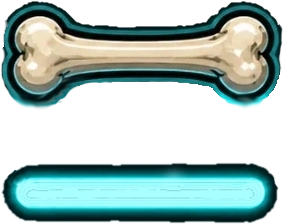
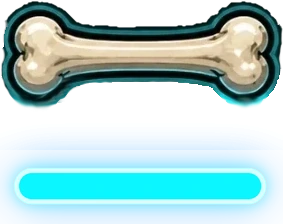
style(skeleton): refine seek slider styling and thumb effects
- Update minimize tool icon asset with refined styling
- Replace blur effect with layered drop-shadow glow on play glyph using three-step cyan bloom (#cdffff, #1ee6ff, #008cff)
- Add pale cyan border (1px solid #d6ffff) to play glyph with border-box sizing
- Refactor seek slider thumb from PNG-based to asset with removed drop-shadow filter
- Adjust seek slider position from 80.45% to 79.37% and height to 1cqw for better proportions
- Darken inactive seek track color from #0b4254 to #02121f for improved contrast
- Add neon cyan border (1px solid #10ecf6) to seek slider track
- Enhance seek slider glow with refined multi-layer box-shadow (inset cyan, outer cyan, blue highlights)
- Add comments documenting the play glyph paint and seek slider capsule design intent
- Improve visual cohesion with consistent cyan neon aesthetic across interactive elements

Changed region(s): [[0.0, 0.625, 0.9894, 1.0]]

diff --git a/src/renderer/style.css b/src/renderer/style.css
@@ -1515,10 +1515,15 @@ input[type="range"]::-moz-range-thumb {
   width: 1.2%;
   height: 2.3%;
   border-radius: 50%;
+  /* The play glyph's own paint — flat cyan, pale stroke, its three-step bloom */
   background: #0af6ff;
-  filter: blur(0.2cqw);
+  border: 1px solid #d6ffff;
+  box-sizing: border-box;
   opacity: var(--eye, 0.2);
-  box-shadow: 0 0 1.2cqw 0.7cqw #008cff;
+  filter:
+    drop-shadow(0 0 0.16cqw #cdffff)
+    drop-shadow(0 0 0.44cqw #1ee6ff)
+    drop-shadow(0 0 1.05cqw #008cff);
   pointer-events: none;
   z-index: 2;
 }
@@ -1629,7 +1634,7 @@ input[type="range"]::-moz-range-thumb {
   transform: rotate(6deg);
   appearance: none;
   -webkit-appearance: none;
-  border: 1px solid #17566d;
+  border: 1px solid #d6ffff;
   border-radius: 999px;
   background: linear-gradient(
     90deg,
@@ -1638,7 +1643,10 @@ input[type="range"]::-moz-range-thumb {
     #03101d var(--level, 80%),
     #03101d 100%
   );
-  box-shadow: inset 0 2px 4px #000c, 0 1px 1px #69c8e530;
+  box-shadow:
+    0 0 0.16cqw #cdffff,
+    0 0 0.44cqw #1ee6ff,
+    0 0 1.05cqw #008cff;
   cursor: pointer;
   z-index: 3;
 }
@@ -1789,26 +1797,29 @@ input[type="range"]::-moz-range-thumb {
 .skeleton-skin .sk-seek {
   position: absolute;
   left: 34.8%;
-  top: 80.45%;
+  top: 79.37%;
   width: 30.7%;
-  height: 1.1%;
+  height: 1cqw;
   margin: 0;
   appearance: none;
   -webkit-appearance: none;
   cursor: pointer;
+  /* A capsule as thick as the bone thumb, stroked in neon cyan. The played run
+     fills solid cyan; the rest stays a dark channel, as in the reference. */
   background: linear-gradient(
     90deg,
     #0af6ff 0%,
     #0af6ff var(--progress, 0%),
-    #0b4254 var(--progress, 0%),
-    #0b4254 100%
+    #02121f var(--progress, 0%),
+    #02121f 100%
   );
-  border: 0;
+  border: 1px solid #10ecf6;
   border-radius: 999px;
   box-shadow:
-    inset 0 0 0.18cqw #d9feff55,
-    0 0 0.15cqw #bffcff99,
-    0 0 0.45cqw #0af6ffaa;
+    inset 0 0 0.18cqw #0af6ff4d,
+    0 0 0.18cqw #0af6ffcc,
+    0 0 0.55cqw #12dcf080,
+    0 0 1.15cqw #0070cc5c;
   z-index: 3;
 }
 /* The thumb is an upright cartoon bone, as in the reference art: a shaft with
@@ -1824,8 +1835,10 @@ input[type="range"]::-moz-range-thumb {
   min-width: 11px;
   min-height: 15px;
   border: 0;
+  /* the shared range-thumb defaults would ring the bone in a circle */
+  border-radius: 0;
+  box-shadow: none;
   background: url("./assets/skeleton-seek-thumb.png") center / contain no-repeat;
-  filter: drop-shadow(0 0 0.3cqw #0af6ffb3);
   cursor: grab;
 }
 .skeleton-skin .sk-seek:active::-webkit-slider-thumb { cursor: grabbing; }
